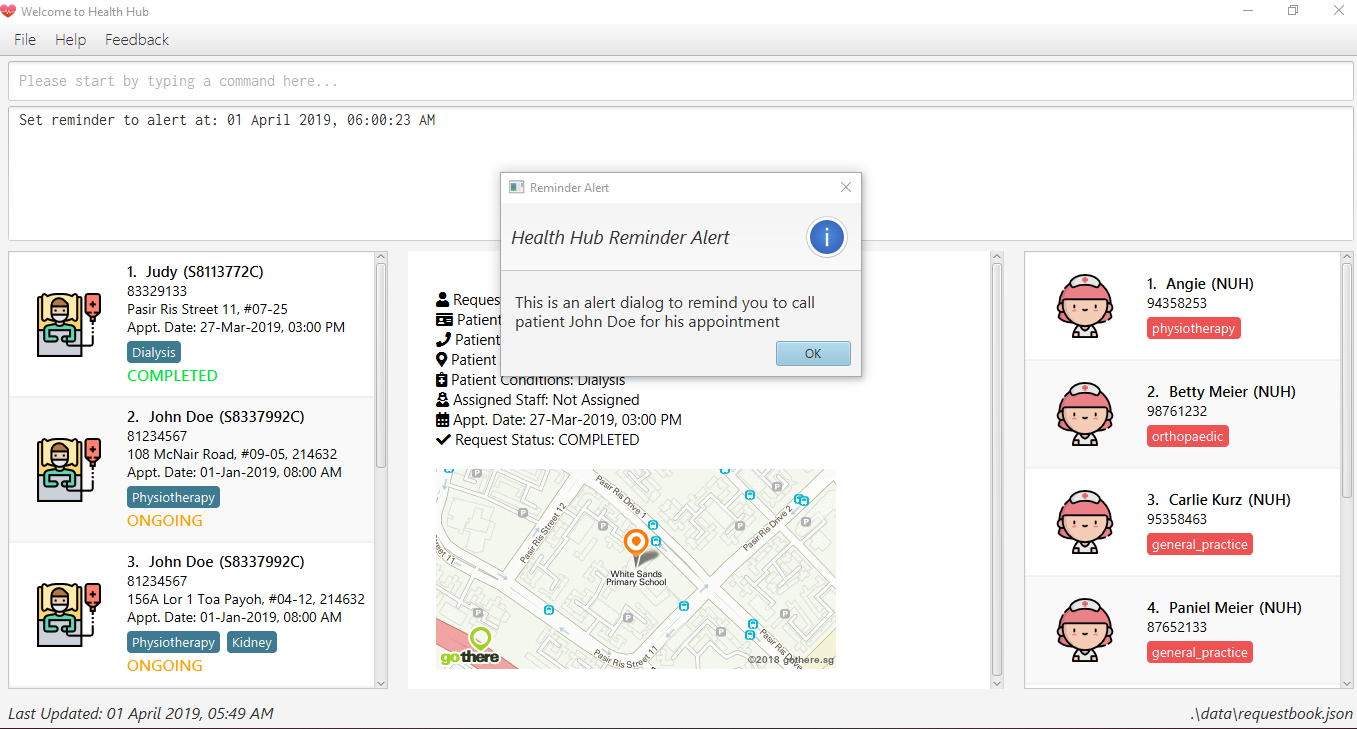
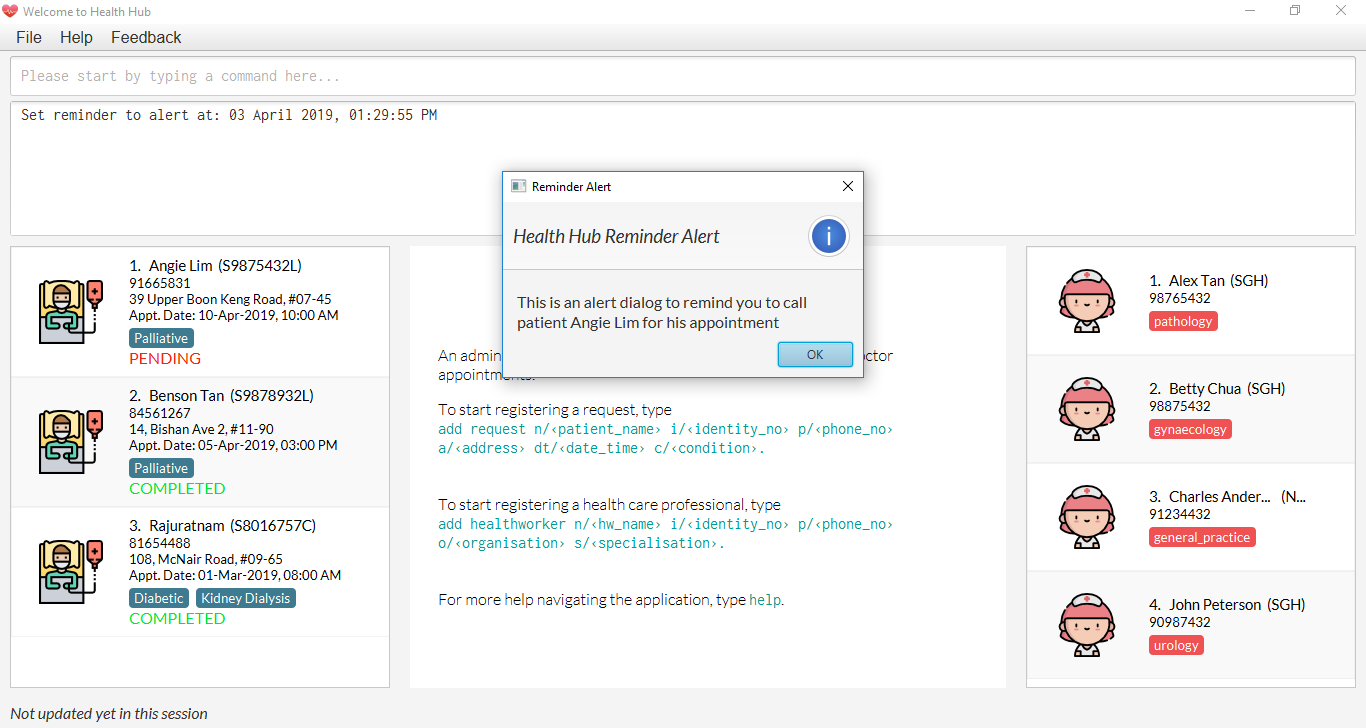
Updated user guide.

diff --git a/src/main/java/seedu/address/model/util/SampleDataUtil.java b/src/main/java/seedu/address/model/util/SampleDataUtil.java
@@ -31,13 +31,13 @@ public class SampleDataUtil {
 
     public static HealthWorker[] getSampleHealthWorkers() {
         return new HealthWorker[] {
-            new HealthWorker(new Name("Alex Raider"), new Nric("T1234567J"), new Phone("98765432"),
+            new HealthWorker(new Name("Alex Tan"), new Nric("T1234567J"), new Phone("98765432"),
                         new Organization("SGH"), getSkillsFromString("PATHOLOGY")),
-            new HealthWorker(new Name("Billy Batson"), new Nric("T5857367J"), new Phone("98875432"),
+            new HealthWorker(new Name("Betty Chua"), new Nric("T5857367J"), new Phone("98875432"),
                         new Organization("SGH"), getSkillsFromString("GYNAECOLOGY")),
             new HealthWorker(new Name("Charles Anderson"), new Nric("S5856787J"), new Phone("91234432"),
                         new Organization("NUH"), getSkillsFromString("GENERAL_PRACTICE")),
-            new HealthWorker(new Name("Dawgs Galore"), new Nric("T2334567J"), new Phone("90987432"),
+            new HealthWorker(new Name("John Peterson"), new Nric("T2334567J"), new Phone("90987432"),
                         new Organization("SGH"), getSkillsFromString("UROLOGY"))
         };
     }
